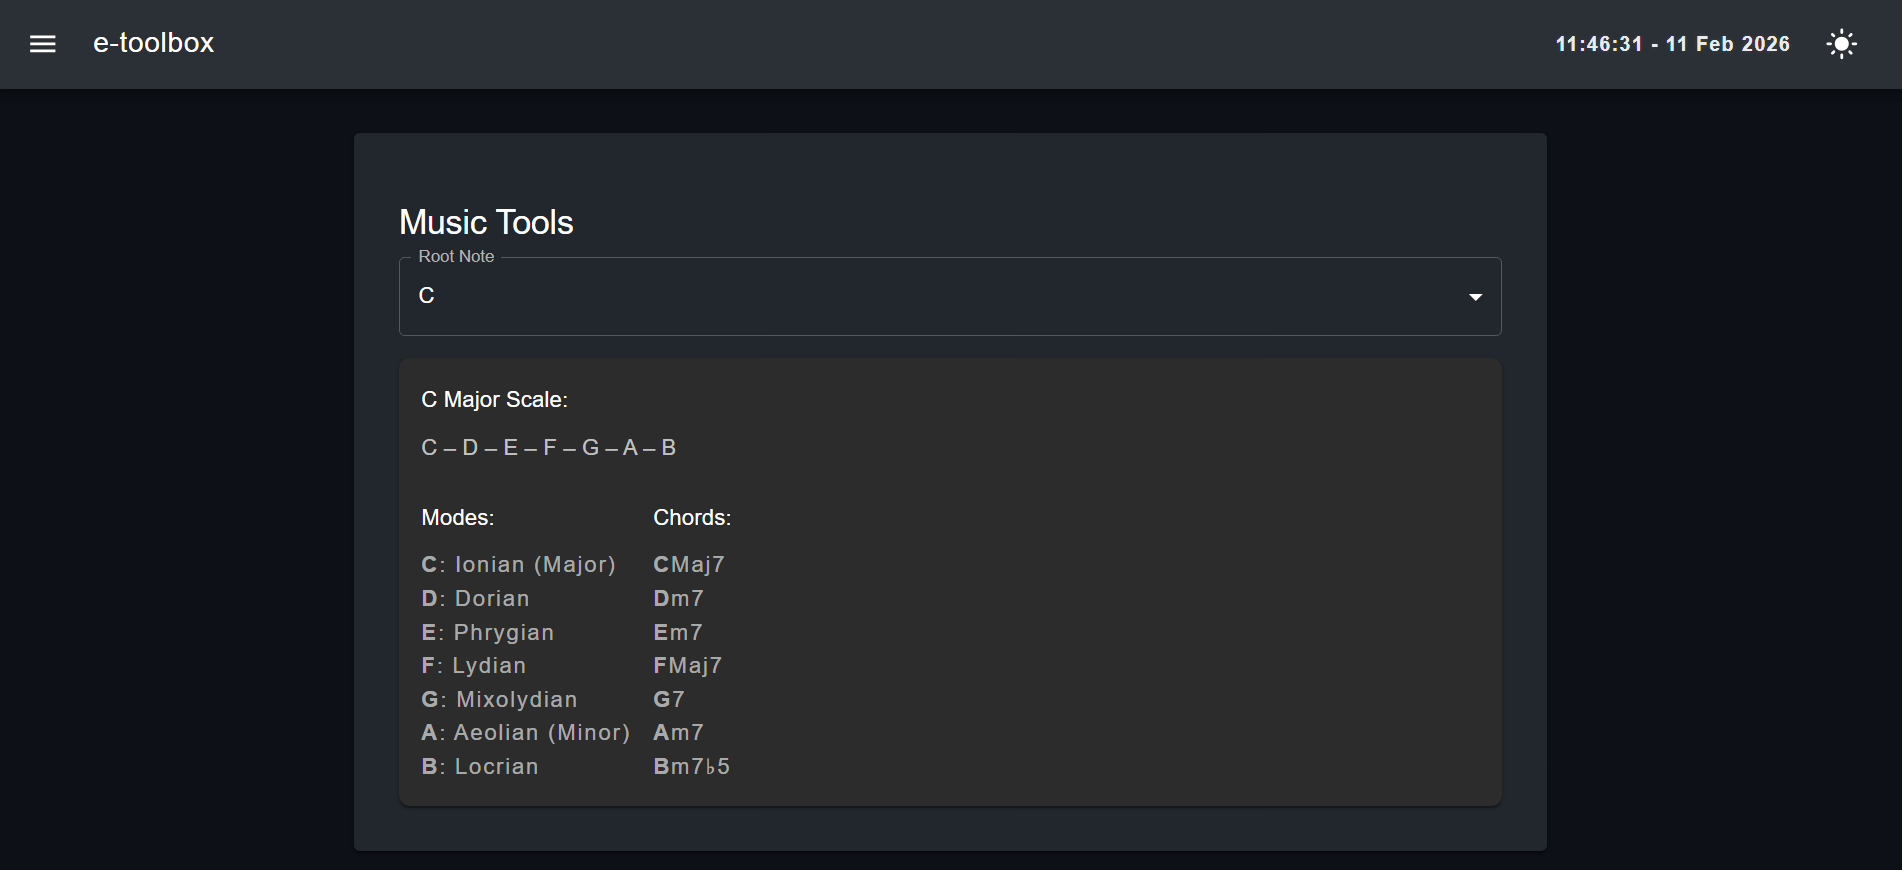
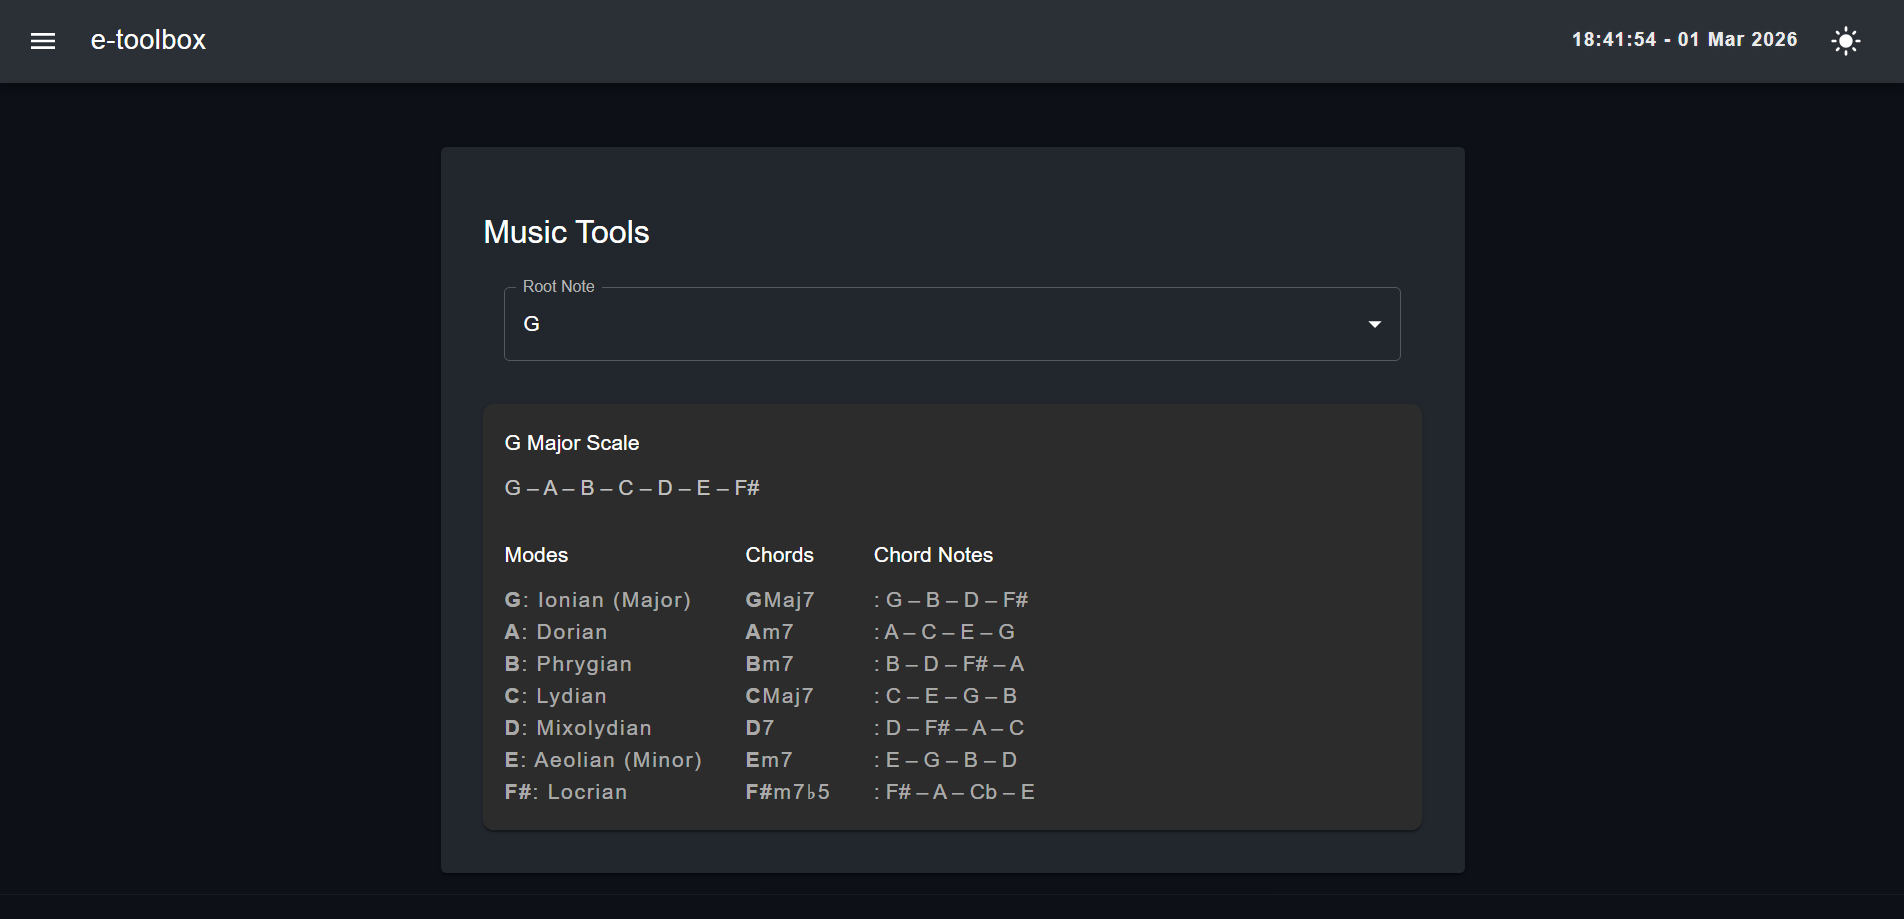
Update chord note display and tweak UI layout

diff --git a/src/pages/MusicTools.jsx b/src/pages/MusicTools.jsx
@@ -3,18 +3,56 @@ import { Box, Container, Paper, Typography, Stack, MenuItem, TextField } from "@
 import { Notes, Modes, MajorScales, SeventhChordTypes } from "../data/Notes";
 // import UnderConstruction from "../components/UnderConstruction";
 
+function useChordNotes(scale, degree, chordType) {
+    if (!scale || scale.length !== 7) return [];
+
+    const root = scale[degree];
+    const third = scale[(degree + 2) % 7];
+    const fifth = scale[(degree + 4) % 7];
+    const seventh = scale[(degree + 6) % 7];
+
+    let notes = [root, third, fifth, seventh];
+
+    // Apply alterations
+    if (chordType.includes("♭3")) notes[1] = flat(notes[1]);
+    if (chordType.includes("♭5")) notes[2] = flat(notes[2]);
+    if (chordType.includes("♭7")) notes[3] = flat(notes[3]);
+
+    return notes;
+}
+function flat(note) {
+    // if (note.includes("#")) return note.replace("#", "");
+    // if (!note.includes("b")) return note + "b";
+
+    if (note.includes("#")) {
+        return note.replace("#", "");
+    }
+
+    return note;
+}
 export default function MusicTools() {
     const [root, setRoot] = useState("");
     const scale = root ? MajorScales[root] : [];
 
     return (
-        <Container maxWidth="md" sx={{ minHeight: "80vh", mt: 4, mx: "auto" }}>
-            <Paper sx={{ p: 4 }}>
-                <Typography variant="h5" gutterBottom sx={{ mt: 2}}>
+        <Container
+            sx={{
+                minHeight: "80vh",
+                mt: 4, mx: "auto",
+                p: { xs: "4px", sm: "8px", md: "16px" },
+                maxWidth: {xs: "360px", sm: "600px", md: "800px"}
+            }}
+        >
+            <Paper sx={{ p: { xs: "4px", sm: "8px", md: 4 }, }}>
+                <Typography variant="h5" gutterBottom sx={{ mt: 2 }}>
                     Music Tools
                 </Typography>
                 {/* <UnderConstruction /> */}
-               <Stack>
+                <Stack
+                    sx={{
+                        p: { xs: "4px", sm: "8px", md: "16px" },
+                    }}
+                >
                     <TextField
                         select
                         id="root"
@@ -31,51 +69,65 @@ export default function MusicTools() {
                     </TextField>
 
                </Stack>
-                    {root && (
-                        <Paper
-                            sx={{
-                                p: 2,
-                                mt: 2,
-                                borderRadius: 2,
-                                bgcolor: theme =>
-                                    theme.palette.mode === "dark" ? "grey.900" : "grey.50",
-                            }}
-                        >
-                            <Typography variant="subtitle1" sx={{ mb: 1 }}>
-                                {root} Major Scale:
-                            </Typography>
+                {root && (
+                    <Paper
+                        sx={{
+                            p: { xs: "4px", sm: "8px", md: "16px" },
+                            mt: 2,
+                            borderRadius: 2,
+                            bgcolor: theme =>
+                                theme.palette.mode === "dark" ? "grey.900" : "grey.50",
+                        }}
+                    >
+                        <Typography variant="subtitle1" sx={{ mb: 1 }}>
+                            {root} Major Scale
+                        </Typography>
+                        <Typography sx={{ opacity: 0.7 }}>
+                            {scale.join(" – ")}
+                        </Typography>
+                        <Box sx={{ display: "flex", gap: { sm: 1, md: 4 }}}>
 
-                            <Typography sx={{ opacity: 0.7 }}>
-                                {scale.join(" – ")}
-                            </Typography>
-                            <Box sx={{ display: "flex", gap: 2}}>
+                            <Box sx={{ mt: 3 }}>
+                                <Typography variant="subtitle1" sx={{ mb: 1 }}>
+                                    Modes
+                                </Typography>
 
-                                <Box sx={{ mt: 3 }}>
-                                    <Typography variant="subtitle1" sx={{ mb: 1 }}>
-                                        Modes:
+                                {Modes.map((mode, i) => (
+                                    <Typography key={mode.name} sx={{ opacity: 0.6, letterSpacing: "1.2px"  }}>
+                                        <strong>{scale[i]}</strong>: {mode.name}
                                     </Typography>
-
-                                    {Modes.map((mode, i) => (
-                                        <Typography key={mode.name} sx={{ opacity: 0.6, letterSpacing: "1.2px"  }}>
-                                            <strong>{scale[i]}</strong>: {mode.name}
-                                        </Typography>
-                                    ))}
-                                </Box>
-
-                                <Box sx={{ mt: 3 }}>
-                                    <Typography variant="subtitle1" sx={{ mb: 1 }}>
-                                        Chords:
-                                    </Typography>
-
-                                    {scale.map((note, i) => (
-                                        <Typography key={note + "-7th"} sx={{ opacity: 0.6, letterSpacing: "1.2px" }}>
-                                            <strong>{note}</strong>{SeventhChordTypes[i]}
-                                        </Typography>
-                                    ))}
-                                </Box>
+                                ))}
                             </Box>
-                        </Paper>
-                    )}
+                            <Box sx={{ mt: 3 }}>
+                                <Typography variant="subtitle1" sx={{ mb: 1 }}>
+                                    Chords
+                                </Typography>
+
+                                {scale.map((note, i) => (
+                                    <Typography key={note + "-7th"} sx={{ opacity: 0.6, letterSpacing: "1.2px" }}>
+                                        <strong>{note}</strong>{SeventhChordTypes[i]}
+                                    </Typography>
+                                ))}
+                            </Box>
+                            <Box sx={{ mt: 3 }}>
+                                <Typography variant="subtitle1" sx={{ mb: 1 }}>
+                                    Chord Notes
+                                </Typography>
+
+                                {scale.map((note, i) => {
+                                    const chordType = SeventhChordTypes[i];
+                                    const chordNotes = useChordNotes(scale, i, chordType);
+
+                                    return (
+                                        <Typography key={note + "-notes"} sx={{ opacity: 0.6 }}>
+                                            : {chordNotes.join(" – ")}
+                                        </Typography>
+                                    );
+                                })}
+                            </Box>
+                        </Box>
+                    </Paper>
+                )}
             </Paper>
         </Container>
     );
